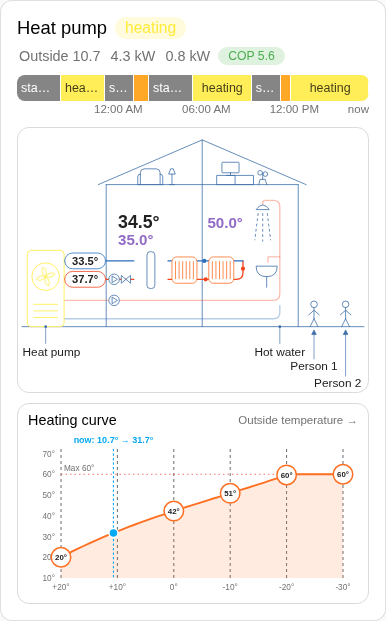
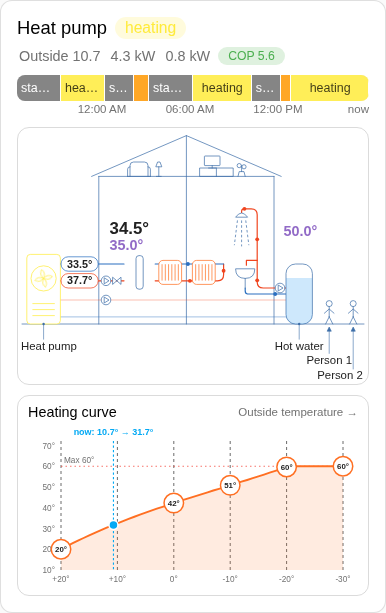
v0.8.1: people follow device trackers, hot water tank outside
- People: new options person1_tracker / person2_tracker (device_tracker);
  a figure stands in the living room under the roof while its tracker is
  home (green) and in the yard otherwise (grey). person1/2_entity from
  0.8.0 still work as a fallback. Tracker changes redraw the card at once.
- House 30 px taller to make room for people and names under the roof.
- Hot water tank stands outside next to the house: the heat pump charges
  it, a circulation pump keeps hot water running to the bathroom (tap,
  shower) and back from the sink all the time (always animated). Tank fill
  shows actual vs. target; outline orange and coil while charging.
- Shower spray no longer animated; slightly larger text.
- README and screenshots updated.

diff --git a/custom_components/open3e_gateway/www/open3e-heatpump-card.js b/custom_components/open3e_gateway/www/open3e-heatpump-card.js
@@ -9,8 +9,8 @@
  *   storage: separator                      # optional: separator | buffer | none between heat pump and heating
  *   show_people: true                       # optional: two figures next to the house, with name and arrow
  *   person1_name: Anna                      # optional: label of figure 1 (default "Person 1")
- *   person1_entity: person.anna             # optional: figure turns green while home, grey when away
- *   person2_name / person2_entity           # same for figure 2
+ *   person1_tracker: device_tracker.anna    # optional: figure in the house while home (green), in the yard while away (grey)
+ *   person2_name / person2_tracker          # same for figure 2
  *   curve: true                             # optional: heating curve chart (default on)
  *   curve_controls: false                   # optional: slope / curve level row below the curve
  *   tiles: [compressor, flow_hk, ...]       # optional: which tiles, in which order (default none)
@@ -21,7 +21,7 @@
  * so renamed entities keep working. No external libraries. The card has a visual
  * editor (ha-form).
  */
-const VERSION = "0.8.0";
+const VERSION = "0.8.1";
 
 // tile key -> integration entity key (unique id without the config entry prefix)
 const KEYS = {
@@ -264,8 +264,8 @@ class Open3eHeatpumpCard extends HTMLElement {
 
   // System diagram in the style of a house cross-section (line art). The air source heat pump stands
   // outside (fan spins while the compressor runs); inside: circulation pumps, 3-way valve,
-  // hydraulic separator / buffer tank and radiators; the hot water line rises to the bathroom (tap over the sink, shower). Two people in the yard.
-  // Only the active loop is animated (dots travel along the pipes: flow red, return blue); idle
+  // hydraulic separator / buffer tank and radiators; the hot water tank stands outside; a circulation pump keeps hot water running from it to the bathroom (tap over the sink, shower) all the time. Two people in the yard.
+  // Only the active loop and the hot water circulation (always on) are animated (dots travel along the pipes: flow red, return blue); idle
   // pipes stay coloured but fainter. Values without words: actual in the text colour, target in
   // purple. The heat pump's own flow/return (268/269) sit on the pipes next to the unit at the
   // active loop's height. The hot water values show only the target while no hot water is being made.
@@ -316,29 +316,39 @@ class Open3eHeatpumpCard extends HTMLElement {
       const fins = Array.from({ length: 6 }, (_, i) => { const fx = x + (w / 7) * (i + 1); return `M${fx},${y + 7} V${y + h - 7}`; }).join(" ");
       return `<rect x="${x}" y="${y}" width="${w}" height="${h}" rx="7" fill="${BG}" stroke="${color}" stroke-width="1.2"/><path d="${fins}" fill="none" stroke="${color}" stroke-width="1.2" stroke-linecap="round"/>`;
     };
-    const W = 520, fit = (x, text, px = 9.5) => Math.min(W - 2 - (String(text).length * px) / 2, Math.max(2 + (String(text).length * px) / 2, x));
+    const W = 570, fit = (x, text, px = 9.5) => Math.min(W - 2 - (String(text).length * px) / 2, Math.max(2 + (String(text).length * px) / 2, x));
     // Callout like in the reference picture: dot on the part, line down, label below.
     const callout = (x, y0, text) => `<g class="callout"><circle cx="${x}" cy="${y0}" r="2" fill="${LINE}"/>
       <line x1="${x}" x2="${x}" y1="${y0}" y2="${y0 + 26}" stroke="${LINE}" stroke-width="1"/><text x="${fit(x, text)}" y="${y0 + 44}" text-anchor="middle">${esc(text)}</text></g>`;
-    // Two figures in the yard; an arrow below each points up to the figure, the name under the arrow.
-    const person = (n, x, labelY) => {
-      const eid = this._config[`person${n}_entity`] || "", st = eid ? this._hass.states[eid] : null;
+    // Two figures with a name and an arrow pointing at them. With a device tracker (`personN_tracker`)
+    // a figure stands in the living room under the roof while its tracker is `home` and in the yard
+    // otherwise; without a tracker it stays in the yard.
+    const person = (n) => {
+      const eid = this._config[`person${n}_tracker`] || this._config[`person${n}_entity`] || "";
+      const st = eid ? this._hass.states[eid] : null;
+      const home = st?.state === "home";
       const name = String(this._config[`person${n}_name`] || st?.attributes?.friendly_name || `${t.person} ${n}`).slice(0, 12);
-      const color = st ? (st.state === "home" ? C.ok : C.off) : LINE;
+      const color = st ? (home ? C.ok : C.off) : LINE;
+      // Inside: feet on the attic floor (y 50), names just below it, left of / right of the divider.
+      const pos = home
+        ? { x: n === 1 ? 250 : 288, feet: 50, ty: 98, tx: n === 1 ? 266 : 282, anchor: n === 1 ? "end" : "start" }
+        : { x: n === 1 ? 512 : 552, feet: 296, ty: n === 1 ? 362 : 388, tx: null, anchor: "middle" };
+      const { x, feet: f } = pos, tip = f + 5;
+      const tx = pos.tx ?? fit(x, name);
       return `<g class="${eid ? "click" : ""}" data-entity="${esc(eid)}" stroke="${color}" fill="none" stroke-width="1.2" stroke-linecap="round" stroke-linejoin="round">
-        <circle cx="${x}" cy="262" r="5"/>
-        <path d="M${x},267 V284 M${x - 8},278 L${x},271 L${x + 8},278 M${x},284 L${x - 6},296 M${x},284 L${x + 6},296"/>
-        <line x1="${x}" x2="${x}" y1="${labelY - 17}" y2="308" stroke-width="1"/>
-        <polygon points="${x - 3.5},308 ${x + 3.5},308 ${x},301" fill="${color}" stroke-width="1"/>
-        <text x="${fit(x, name)}" y="${labelY}" text-anchor="middle" class="pn" stroke="none">${esc(name)}</text></g>`;
+        <circle cx="${x}" cy="${f - 34}" r="5"/>
+        <path d="M${x},${f - 29} V${f - 12} M${x - 8},${f - 18} L${x},${f - 25} L${x + 8},${f - 18} M${x},${f - 12} L${x - 6},${f} M${x},${f - 12} L${x + 6},${f}"/>
+        <line x1="${x}" x2="${x}" y1="${pos.ty - 17}" y2="${tip + 7}" stroke-width="1"/>
+        <polygon points="${x - 3.5},${tip + 7} ${x + 3.5},${tip + 7} ${x},${tip}" fill="${color}" stroke-width="1"/>
+        <text x="${tx}" y="${pos.ty}" text-anchor="${pos.anchor}" class="pn" stroke="none">${esc(name)}</text></g>`;
     };
-    const people = this._config.show_people === false ? "" : person(1, 444, 362) + person(2, 492, 388);
+    const people = this._config.show_people === false ? "" : person(1) + person(2);
     const vals = (x, y, act, set, actTile, setTile, targetOnly = false) => `
       ${targetOnly && set !== null ? "" : `<text x="${x}" y="${y}" class="va click" data-entity="${esc(this._id(actTile))}">${esc(deg(act))}</text>`}
       ${set !== null ? `<text x="${x}" y="${targetOnly ? y : y + 26}" class="vt click" data-entity="${esc(this._id(setTile))}">${esc(deg(set))}</text>` : ""}`;
 
     // Lanes (all above ground, ground line y 296): heating return / flow, hot water flow / return.
-    const HR = 196, HF = 224, WF = 256, WR = 284, HPX = 64, SX = 196, END = 336, RX = 392;
+    const HR = 196, HF = 224, WF = 256, WR = 284, HPX = 64, SX = 196, END = 336, RX = 392, TX = 440, CF = 236, CR = 246;
     const hpFlowY = dhwOn ? WF : HF, hpRetY = dhwOn ? WR : HR;
     let heat;
     if (storage === "none") {
@@ -353,26 +363,43 @@ class Open3eHeatpumpCard extends HTMLElement {
             ${buf !== null ? `<text x="${SX}" y="216" text-anchor="middle" class="tv">${esc(deg(buf))}</text>` : ""}</g>`
         : `<rect x="${SX - 6}" y="182" width="12" height="56" rx="5" fill="${BG}" stroke="${LINE}" stroke-width="1.2"/>`;
     }
+    // Tank fill: empty 15 K below the target, full at the target; purple once reached.
+    const fill = tv !== null && tset !== null ? Math.min(1, Math.max(0.08, (tv - (tset - 15)) / 15)) : 0;
+    const fillColor = tv !== null && tset !== null && tv >= tset ? C.target : C.water;
     const petals = [0, 90, 180, 270].map((a) => `<path d="M0,0 Q-6,-8 0,-15 Q6,-8 0,0" transform="rotate(${a})"/>`).join("");
     return `<div class="schema">
-      <svg viewBox="0 0 520 396" role="img" aria-label="${esc(t.schema)}">
+      <svg viewBox="0 -24 570 420" role="img" aria-label="${esc(t.schema)}">
+        <defs><clipPath id="o3e-tank"><rect x="${TX}" y="196" width="44" height="100" rx="16"/></clipPath></defs>
         <g class="sc">
-          <path d="M128,296 V80 M420,80 V296 M128,80 H420 M116,80 L274,12 L432,80 M274,12 V296"/>
-          <line x1="0" x2="520" y1="296" y2="296"/>
+          <path d="M128,296 V50 M420,50 V296 M128,50 H420 M116,50 L274,-18 L432,50 M274,-18 V296"/>
+          <line x1="0" x2="570" y1="296" y2="296"/>
+          <g transform="translate(0 -30)">
           <path d="M180,80 V62 Q180,56 186,56 H204 Q210,56 210,62 V80 M176,80 V68 Q176,64 180,64 M214,80 V68 Q214,64 210,64 M176,80 H214"/>
           <path d="M224,80 H232 M228,80 V64 M223,64 L226,56 H230 L233,64 Z"/>
           <rect x="296" y="66" width="56" height="14"/><line x1="324" y1="66" x2="324" y2="80"/>
           <rect x="304" y="46" width="26" height="16" rx="1"/><path d="M317,62 V66 M311,66 H323"/>
           <path d="M360,80 L362,72 H370 L372,80 M366,72 V62"/><circle cx="362" cy="62" r="3.5"/><circle cx="370" cy="64" r="3.5"/>
+          </g>
         </g>
         ${heat}
-        ${pipe(`${HPX},${WF} ${RX},${WF} ${RX},104 ${RX - 26},104 ${RX - 26},112`, FLOW, dhwOn)}
-        ${pipe(`${RX},${WF + 8} ${RX},${WR} ${HPX},${WR}`, RET, dhwOn)}
+        ${pipe(`${HPX},${WF} ${TX},${WF}`, FLOW, dhwOn)}
+        ${pipe(`${TX},${WR} ${HPX},${WR}`, RET, dhwOn)}
+        ${pipe(`${TX},${CF} ${RX},${CF} ${RX},104 ${RX - 26},104 ${RX - 26},112`, FLOW, true)}
+        ${pipe(`${RX - 20},236 ${RX - 20},${CR} ${TX},${CR}`, RET, true)}
+        ${pump(TX - 10, CF)}
+        <g class="click" data-entity="${esc(this._id("dhw_set") || this._id("dhw"))}">
+          <rect x="${TX}" y="196" width="44" height="100" rx="16" fill="${BG}" stroke="${dhwOn ? C.dhw : LINE}" stroke-width="1.2"/>
+          ${fill > 0 ? `<rect x="${TX}" y="${196 + 100 * (1 - fill)}" width="44" height="${100 * fill}" clip-path="url(#o3e-tank)"
+            style="fill:color-mix(in srgb, ${fillColor} 22%, transparent)"/>` : ""}
+          ${dhwOn ? `<g fill="none" stroke-width="2" stroke-linecap="round" stroke-linejoin="round">
+            <polyline points="${TX},${WF} ${TX + 32},${WF} ${TX + 32},270" stroke="${FLOW}"/>
+            <polyline points="${TX + 32},270 ${TX + 12},270 ${TX + 12},${WR} ${TX},${WR}" stroke="${RET}"/></g>` : ""}
+        </g>
         <g class="click" data-entity="${esc(this._id("dhw_set") || this._id("dhw"))}" fill="none" stroke="${LINE}" stroke-width="1.2" stroke-linecap="round" stroke-linejoin="round">
-          <path d="M${RX},190 H${RX - 18} V198" stroke="${FLOW}" stroke-width="2" opacity="${dhwOn ? 1 : 0.35}"/>
-          <path d="M${RX - 36},204 H${RX - 4} Q${RX - 4},220 ${RX - 20},220 Q${RX - 36},220 ${RX - 36},204 Z M${RX - 20},220 V236" fill="${BG}"/>
+          <path d="M${RX},190 H${RX - 18} V198" stroke="${FLOW}" stroke-width="2"/>
+          <path d="M${RX - 36},204 H${RX - 4} Q${RX - 4},220 ${RX - 20},220 Q${RX - 36},220 ${RX - 36},204 Z M${RX - 20},220 V236"/>
           <path d="M${RX - 36},118 Q${RX - 26},104 ${RX - 16},118 Z" fill="${BG}"/>
-          <path d="M${RX - 33},124 L${RX - 38},164 M${RX - 26},124 V166 M${RX - 19},124 L${RX - 14},164" stroke-dasharray="3 5" class="${dhwOn && !still ? "spray" : ""}"/>
+          <path d="M${RX - 33},124 L${RX - 38},164 M${RX - 26},124 V166 M${RX - 19},124 L${RX - 14},164" stroke-dasharray="3 5"/>
         </g>
         <g class="click" data-entity="${esc(this._id("climate") || this._id("flow_hk"))}">
           ${radiator(228, 190, 38, 40, heatOn ? C.heat : LINE)}${radiator(284, 190, 38, 40, heatOn ? C.heat : LINE)}
@@ -386,8 +413,8 @@ class Open3eHeatpumpCard extends HTMLElement {
         </g>
         ${chip(96, hpFlowY, wp, FLOW, "flow_wp")}${chip(96, hpRetY, ret, RET, "return")}
         ${vals(146, 146, hk, target, "flow_hk", "flow_target")}
-        ${vals(282, 146, tv, tset, "dhw", "dhw_set", !dhwOn)}
-        ${callout(36, 296, t.lbl_hp)}${callout(RX, 296, t.lbl_dhw)}
+        ${vals(TX - 4, 150, tv, tset, "dhw", "dhw_set", !dhwOn)}
+        ${callout(36, 296, t.lbl_hp)}${callout(TX + 22, 296, t.lbl_dhw)}
         ${people}
       </svg></div>`;
   }
@@ -636,7 +663,9 @@ class Open3eHeatpumpCard extends HTMLElement {
     if (!this._hass || !this._config) return;
     if (!this.shadowRoot) this.attachShadow({ mode: "open" });
     const tiles = this._config.tiles || DEFAULT_TILES;
-    const ids = [...new Set([...Object.keys(KEYS).map((k) => this._id(k)), this._config.normal_level_entity])].filter(Boolean);
+    const c = this._config;
+    const ids = [...new Set([...Object.keys(KEYS).map((k) => this._id(k)), c.normal_level_entity,
+      c.person1_tracker || c.person1_entity, c.person2_tracker || c.person2_entity])].filter(Boolean);
     const sig = (this._error || "") + JSON.stringify(this._draft || null) + (this._curveError || "") + this._hass.language + (this._hist ? this._hist.length : "-")
       + Math.floor(Date.now() / 60000) + ids.map((i) => {
       const s = this._hass.states[i]; return s ? s.state + s.last_updated : "-";
@@ -720,18 +749,16 @@ const STYLE = `
             border: 1px solid color-mix(in srgb, var(--disabled-color, #9e9e9e) 25%, transparent); }
   .schema svg { display: block; width: 100%; height: auto; overflow: visible; }
   .schema .sc { fill: none; stroke: #3d6ea8; stroke-width: 1.2; stroke-linecap: round; stroke-linejoin: round; }
-  .schema .callout text { font-size: 18px; fill: var(--primary-text-color); }
+  .schema .callout text { font-size: 19px; fill: var(--primary-text-color); }
   .schema text { fill: var(--primary-text-color); font-family: inherit; }
-  .schema .tv { font-size: 17px; font-weight: 600; }
-  .schema .pn { font-size: 18px; font-weight: 500; }
-  .schema .va { font-size: 27px; font-weight: 600; fill: var(--primary-text-color); }
-  .schema .vt { font-size: 23px; font-weight: 600; fill: ${C.target}; }
+  .schema .tv { font-size: 18px; font-weight: 600; }
+  .schema .pn { font-size: 19px; font-weight: 500; }
+  .schema .va { font-size: 28px; font-weight: 600; fill: var(--primary-text-color); }
+  .schema .vt { font-size: 24px; font-weight: 600; fill: ${C.target}; }
   .schema foreignObject ha-icon { display: block; }
   .schema .spin { animation: o3e-spin 1.4s linear infinite; }
-  .schema .spray { animation: o3e-spray 0.6s linear infinite; }
-  @keyframes o3e-spray { to { stroke-dashoffset: -8; } }
   @keyframes o3e-spin { to { transform: rotate(360deg); } }
-  @media (prefers-reduced-motion: reduce) { .schema .spin, .schema .spray { animation: none; } }
+  @media (prefers-reduced-motion: reduce) { .schema .spin { animation: none; } }
 `;
 
 // ha-form is only defined once HA has loaded it; an entities card editor pulls it in.
@@ -746,13 +773,13 @@ async function ensureHaForm() {
 
 const EDITOR_TEXT = {
   de: {
-    show_people: "Personen am Haus anzeigen", people: "Personen", person1_name: "Name Person 1", person1_entity: "Person 1 (Entität, optional)", person2_name: "Name Person 2", person2_entity: "Person 2 (Entität, optional)",
+    show_people: "Personen am Haus anzeigen", people: "Personen", person1_name: "Name Person 1", person1_tracker: "Tracker Person 1 (optional)", person2_name: "Name Person 2", person2_tracker: "Tracker Person 2 (optional)",
     title: "Titel", temp_bar: "Anlagenschema (Vor-/Rücklauf) anzeigen", storage: "Zwischen Wärmepumpe und Heizung", separator: "Hydraulische Weiche", buffer: "Pufferspeicher", none: "Nichts (direkt)", curve: "Heizkurve anzeigen", curve_controls: "Neigung und Niveau unter der Heizkurve", timeline: "Verlauf Betriebszustand anzeigen", hours_to_show: "Stunden im Verlauf",
     tiles: "Kacheln (Reihenfolge per Ziehen)", normal_level_entity: "Normales Heizkurven-Niveau (Helfer)",
     entities: "Entitäten überschreiben (optional)", state: "Betriebszustand",
   },
   en: {
-    show_people: "Show people at the house", people: "People", person1_name: "Name of person 1", person1_entity: "Person 1 (entity, optional)", person2_name: "Name of person 2", person2_entity: "Person 2 (entity, optional)",
+    show_people: "Show people at the house", people: "People", person1_name: "Name of person 1", person1_tracker: "Person 1 tracker (optional)", person2_name: "Name of person 2", person2_tracker: "Person 2 tracker (optional)",
     title: "Title", temp_bar: "Show system diagram (flow/return)", storage: "Between heat pump and heating", separator: "Hydraulic separator", buffer: "Buffer tank", none: "Nothing (direct)", curve: "Show heating curve", curve_controls: "Slope and curve level below the curve", timeline: "Show operating state timeline", hours_to_show: "Hours in timeline",
     tiles: "Tiles (drag to reorder)", normal_level_entity: "Normal curve level (helper)",
     entities: "Override entities (optional)", state: "Operating state",
@@ -791,9 +818,9 @@ class Open3eHeatpumpCardEditor extends HTMLElement {
       { type: "expandable", name: "", title: EDITOR_TEXT[this._lang()].people, schema: [
         { type: "grid", name: "", schema: [
           { name: "person1_name", selector: { text: {} } },
-          { name: "person1_entity", selector: { entity: { domain: "person" } } },
+          { name: "person1_tracker", selector: { entity: { domain: "device_tracker" } } },
           { name: "person2_name", selector: { text: {} } },
-          { name: "person2_entity", selector: { entity: { domain: "person" } } },
+          { name: "person2_tracker", selector: { entity: { domain: "device_tracker" } } },
         ] },
       ] },
       { type: "grid", name: "", schema: [
@@ -829,7 +856,7 @@ class Open3eHeatpumpCardEditor extends HTMLElement {
     if (cfg.temp_bar === true) delete cfg.temp_bar;
     if (cfg.curve === true) delete cfg.curve;
     if (cfg.show_people === true) delete cfg.show_people;
-    for (const k of ["person1_name", "person1_entity", "person2_name", "person2_entity"]) if (!cfg[k]) delete cfg[k];
+    for (const k of ["person1_name", "person1_tracker", "person2_name", "person2_tracker", "person1_entity", "person2_entity"]) if (!cfg[k]) delete cfg[k];
     if (Number(cfg.hours_to_show) === DEFAULT_HOURS || cfg.hours_to_show === undefined || cfg.hours_to_show === null) delete cfg.hours_to_show;
     if (Array.isArray(cfg.tiles) && cfg.tiles.join() === DEFAULT_TILES.join()) delete cfg.tiles;
     if (!cfg.title) delete cfg.title;

diff --git a/README.md b/README.md
@@ -61,20 +61,26 @@ and its outline is yellow while heating and orange while making hot water.
 Its own flow/return temperatures (268/269) sit on the pipes next to the unit,
 at the height of the active loop. Inside: circulation pumps, a 3-way valve on
 the active loop, a hydraulic separator (default), a buffer tank
-(`storage: buffer`) or nothing (`storage: none`), two radiators, and the hot
-water line rising to the bathroom (tap over the sink, shower). Pipes are thin
-with rounded corners; small dots travel along the active loop (flow red,
-return blue), idle pipes stay coloured but faint. Outlines are never greyed
-out. Next to the radiators and the bathroom: actual temperature, and the
+(`storage: buffer`) or nothing (`storage: none`) and two radiators. The hot
+water tank stands outside next to the house; the heat pump charges it, and a
+circulation pump keeps hot water running from the tank to the bathroom (tap
+over the sink, shower) and back all the time. The tank fill shows the actual
+temperature against the target (empty 15 K below, purple once reached).
+Pipes are thin with rounded corners; small dots travel along the active loop
+and the hot water circulation (flow red, return blue), idle pipes stay
+coloured but faint. Outlines are never greyed
+out. Next to the radiators and above the tank: actual temperature, and the
 target in purple; while no hot water is being made only the hot water target
 is shown. The buffer shows a temperature only if a sensor is available
 (DID 279, or `entities: {buffer: sensor.x}`). Tap a value for its history.
 With *reduce motion* switched on in the OS/browser nothing moves.
 
-Two people stand in the yard, each with an arrow and a name (default
-"Person 1" / "Person 2"). Set `person1_name` / `person2_name`, and optionally
-`person1_entity` / `person2_entity` (a `person.*` entity: the figure turns green
-while home, grey while away, tap for details); `show_people: false` hides them.
+Two people are drawn with an arrow and a name (default "Person 1" /
+"Person 2"; set `person1_name` / `person2_name`). With a device tracker
+(`person1_tracker` / `person2_tracker`, a `device_tracker.*` entity) a figure
+stands in the living room under the roof while its tracker is `home` (green)
+and in the yard otherwise (grey); tap it for details. Without a tracker it
+stays in the yard. `show_people: false` hides them.
 
 The heating curve chart shows the flow target over the outside temperature
 (+20 … −30 °C, like the ViCare app) and the current point. The formula
@@ -100,7 +106,7 @@ Optional tiles below the card (tap for details / to change a setpoint):
 
 Options: `title`, `timeline` (default `true`), `hours_to_show` (default 24),
 `temp_bar` (system diagram, default `true`), `storage` (`separator` | `buffer` | `none`),
-`show_people` (default `true`), `person1_name`, `person1_entity`, `person2_name`, `person2_entity`, `curve` (heating curve, default `true`),
+`show_people` (default `true`), `person1_name`, `person1_tracker`, `person2_name`, `person2_tracker`, `curve` (heating curve, default `true`),
 `curve_controls` (slope / level row below the curve, default `false`), `tiles` (list and order; default none;
 available: level, one_time, compressor, dhw, flow_hk, flow_wp, return, flow_target,
 circuit (heating circuit mode), dhw_set, heater), `entities` (override any entity, e.g. `flow_hk: sensor.x`),
